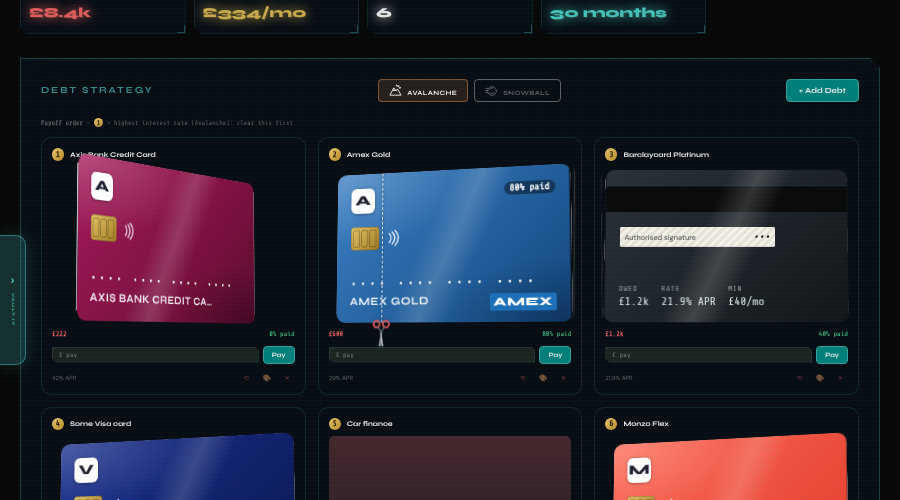
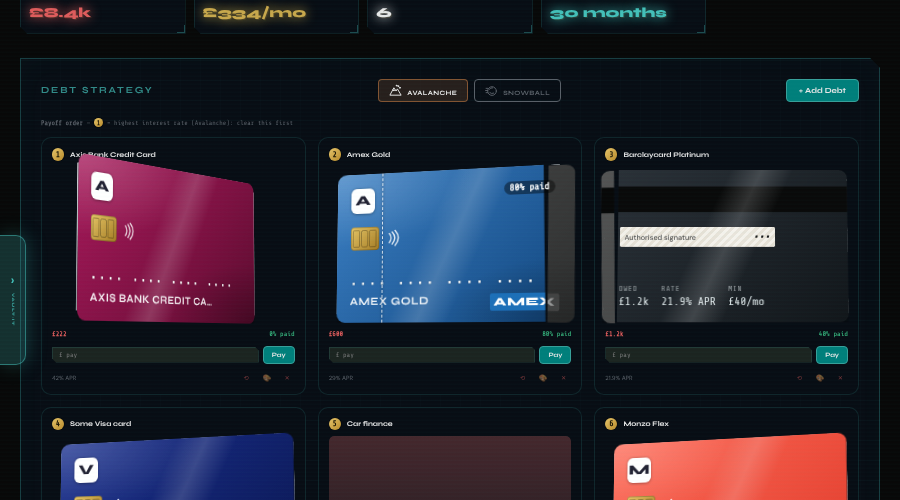
Fix: tiles no longer flash at their final position during the stagger delay when switching Avalanche/Snowball
Claude-Session: https://claude.ai/code/session_01BbEpszbFs3K1a6WMvdXZsu

Changed region(s): [[0.5911, 0.33, 0.6844, 0.66], [0.4044, 0.63, 0.4356, 0.69]]

diff --git a/index.html b/index.html
@@ -12649,7 +12649,7 @@ function setDebtMethod(m) {
       { transform: 'translate(' + dx + 'px,' + dy + 'px) scale(1)', boxShadow: '0 0 0 rgba(0,0,0,0)' },
       { transform: 'translate(' + dx * .5 + 'px,' + dy * .5 + 'px) scale(1.04)', boxShadow: '0 14px 30px rgba(0,0,0,.45)', offset: .45 },
       { transform: 'translate(0,0) scale(1)', boxShadow: '0 0 0 rgba(0,0,0,0)' }
-    ], { duration: 1100, easing: 'cubic-bezier(.4,.05,.2,1)', delay: Math.min(250, n * 40) });
+    ], { duration: 1100, easing: 'cubic-bezier(.4,.05,.2,1)', delay: Math.min(250, n * 40), fill: 'backwards' });
     a.onfinish = a.oncancel = function() { e.style.zIndex = ''; e.style.position = ''; };
   });
   var note = dl.querySelector('.debt-rank-note');
